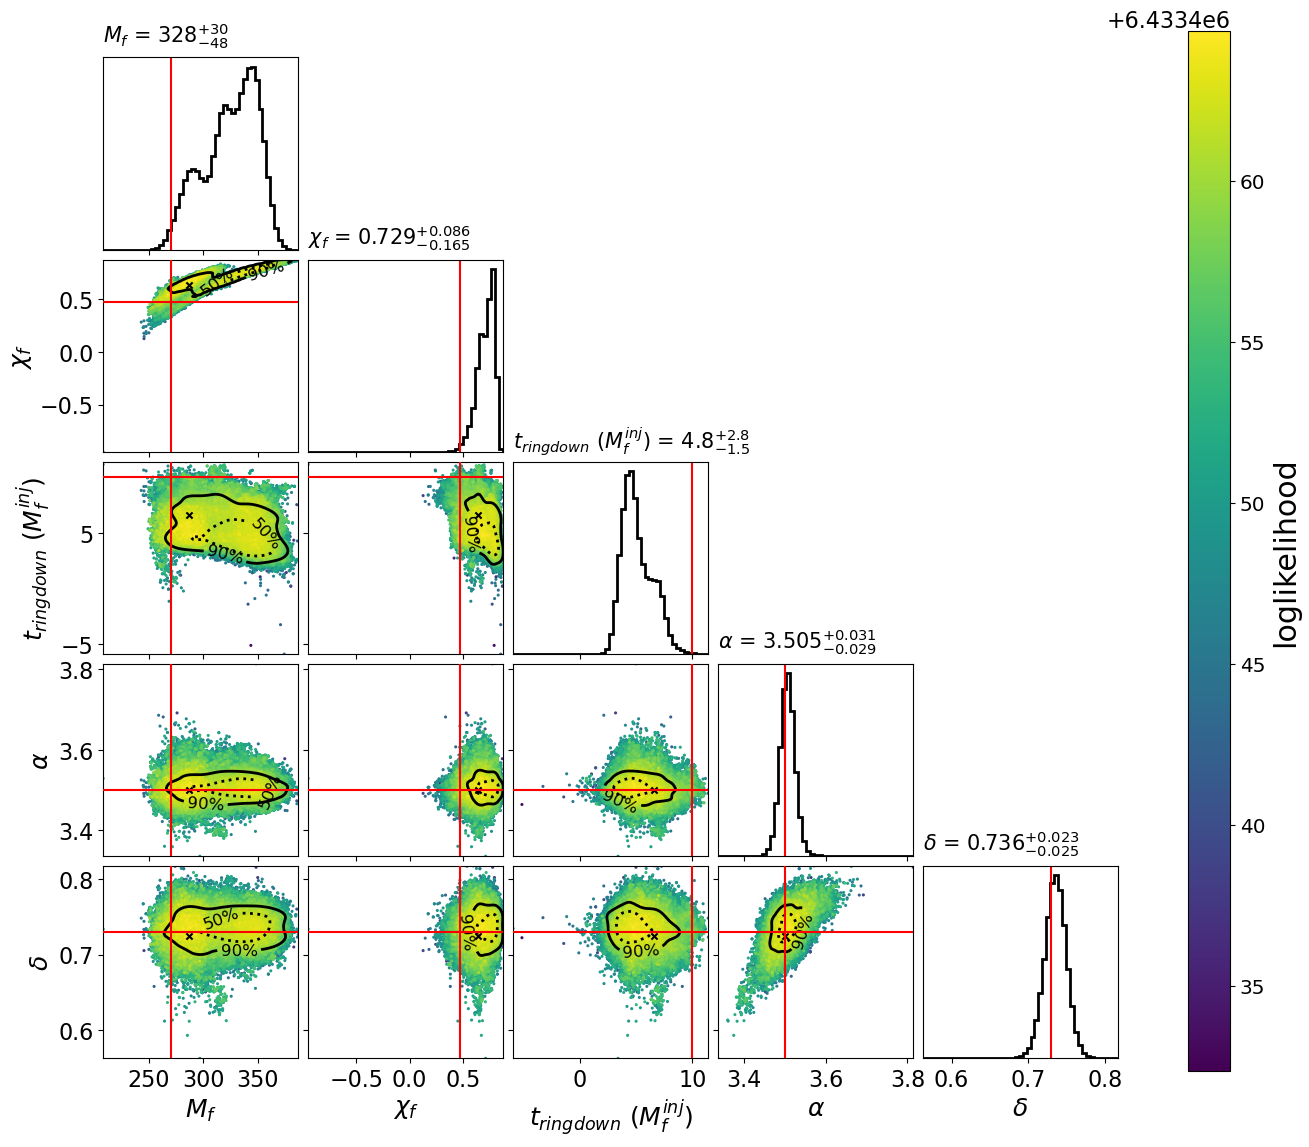
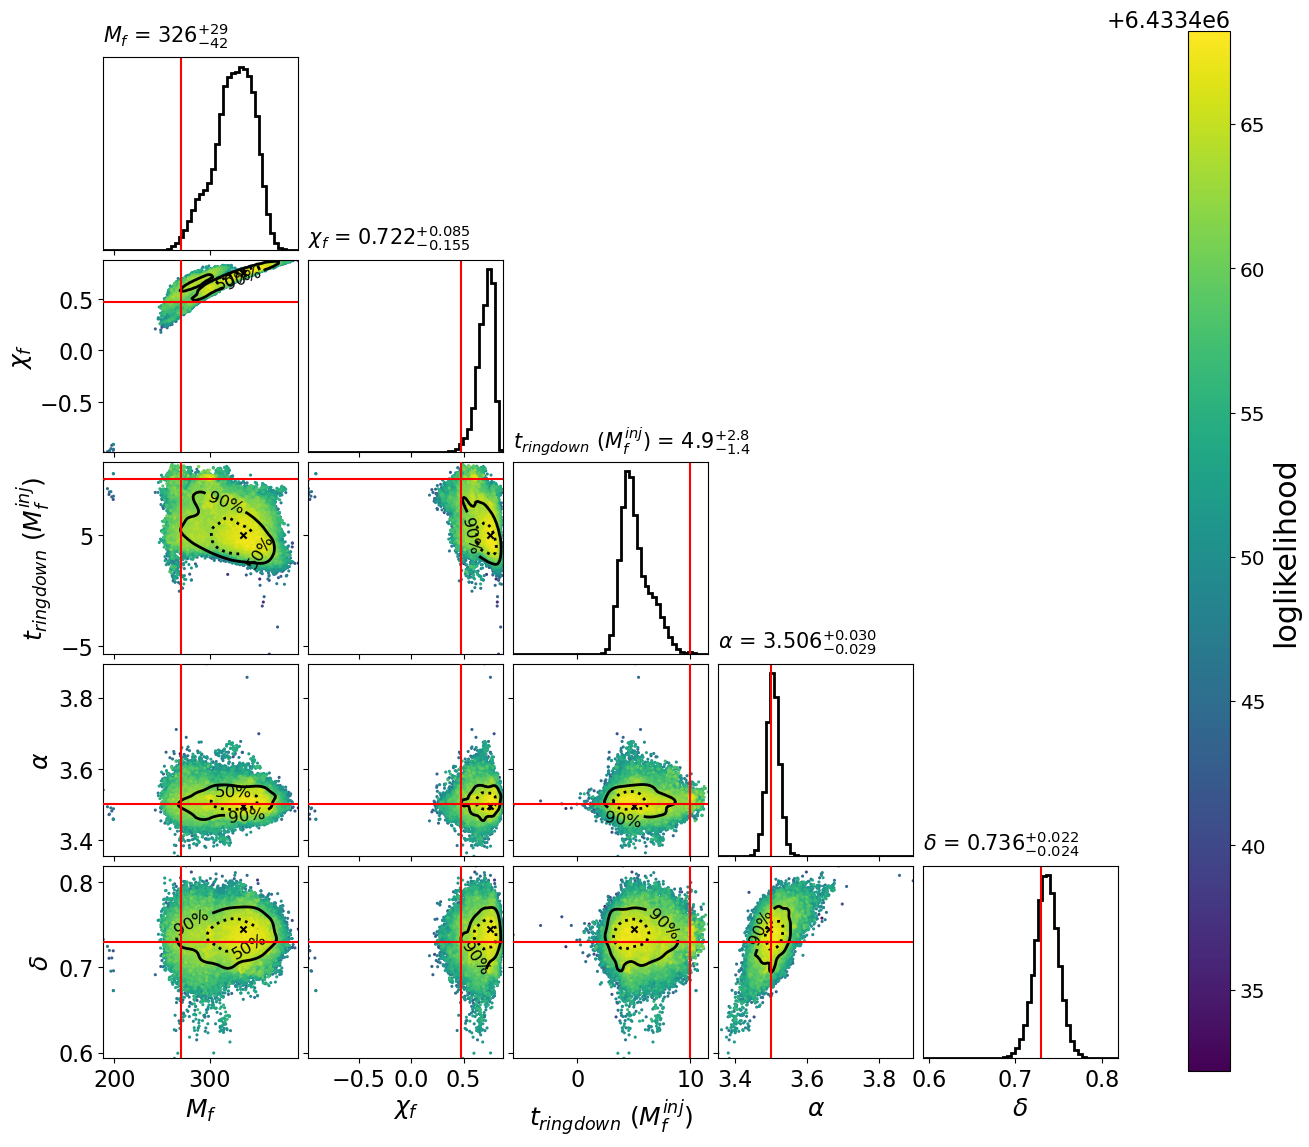
loud q=4 w=3 results

diff --git a/runs/gw190521_injections/nrsur_q4_nonspin_snr30/results.md b/runs/gw190521_injections/nrsur_q4_nonspin_snr30/results.md
@@ -12,31 +12,45 @@
 | Modes | ln Z | Δ ln Z |
 |---|---:|---:|
 | 220, 2 wavelet | 6433350.413 ± 0.092 | 56.599 ± 0.110 |
+| 220, 3 wavelet | 6433368.455 ± 0.085 | 74.641 ± 0.104 |
 | 220+210 | 6433330.698 ± 0.071 | 36.884 ± 0.093 |
 | 220+210, 2 wavelet | 6433364.804 ± 0.074 | 70.990 ± 0.095 |
+| 220+210, 3 wavelet | 6433362.145 ± 0.064 | 68.331 ± 0.087 |
 | 220+210+320 | 6433377.321 ± 0.051 | 83.507 ± 0.078 |
 | 220+210+320, 2 wavelet | 6433396.619 ± 0.082 | 102.805 ± 0.102 |
+| 220+210+320, 3 wavelet | 6433397.492 ± 0.057 | 103.678 ± 0.083 |
 | 220+221 | 6433317.978 ± 0.078 | 24.164 ± 0.098 |
 | 220+221, 2 wavelet | 6433376.365 ± 0.071 | 82.551 ± 0.093 |
+| 220+221, 3 wavelet | 6433382.252 ± 0.081 | 88.438 ± 0.100 |
 | 220+330 | 6433366.526 ± 0.055 | 72.712 ± 0.081 |
 | 220+330, 2 wavelet | 6433401.590 ± 0.083 | 107.776 ± 0.102 |
+| 220+330, 3 wavelet | 6433399.397 ± 0.061 | 105.583 ± 0.085 |
 | 220+330+210 | 6433389.084 ± 0.055 | 95.270 ± 0.081 |
 | 220+330+210, 2 wavelet | 6433403.172 ± 0.076 | 109.358 ± 0.096 |
+| 220+330+210, 3 wavelet | 6433403.591 ± 0.074 | 109.777 ± 0.095 |
 | 220+440 | 6433330.275 ± 0.048 | 36.461 ± 0.077 |
 | 220+440, 2 wavelet | 6433360.889 ± 0.072 | 67.075 ± 0.093 |
+| 220+440, 3 wavelet | 6433363.332 ± 0.069 | 69.518 ± 0.091 |
 | 220, negative mode, 2 wavelet | 6433353.647 ± 0.081 | 59.405 ± 0.099 |
+| 220, negative mode, 3 wavelet | 6433374.855 ± 0.090 | 80.614 ± 0.106 |
 | 220+210, negative mode | 6433333.446 ± 0.062 | 39.204 ± 0.084 |
 | 220+210, negative mode, 2 wavelet | 6433370.696 ± 0.072 | 76.454 ± 0.092 |
+| 220+210, negative mode, 3 wavelet | 6433369.615 ± 0.085 | 75.374 ± 0.103 |
 | 220+210+320, negative mode | 6433382.300 ± 0.071 | 88.058 ± 0.091 |
 | 220+210+320, negative mode, 2 wavelet | 6433401.960 ± 0.053 | 107.719 ± 0.078 |
+| 220+210+320, negative mode, 3 wavelet | 6433398.718 ± 0.093 | 104.477 ± 0.109 |
 | 220+221, negative mode | 6433313.380 ± 0.015 | 19.138 ± 0.059 |
 | 220+221, negative mode, 2 wavelet | 6433380.214 ± 0.074 | 85.973 ± 0.094 |
+| 220+221, negative mode, 3 wavelet | 6433381.082 ± 0.084 | 86.840 ± 0.102 |
 | 220+330, negative mode | 6433366.386 ± 0.053 | 72.144 ± 0.078 |
 | 220+330, negative mode, 2 wavelet | 6433401.422 ± 0.056 | 107.180 ± 0.080 |
+| 220+330, negative mode, 3 wavelet | 6433401.365 ± 0.074 | 107.124 ± 0.094 |
 | 220+330+210, negative mode | 6433389.238 ± 0.058 | 94.997 ± 0.082 |
 | 220+330+210, negative mode, 2 wavelet | 6433400.311 ± 0.063 | 106.069 ± 0.085 |
+| 220+330+210, negative mode, 3 wavelet | 6433401.286 ± 0.081 | 107.045 ± 0.099 |
 | 220+440, negative mode | 6433330.517 ± 0.087 | 36.276 ± 0.104 |
 | 220+440, negative mode, 2 wavelet | 6433361.302 ± 0.070 | 67.061 ± 0.091 |
+| 220+440, negative mode, 3 wavelet | 6433361.332 ± 0.075 | 67.090 ± 0.094 |
 
 ### 220-only reference evidence
 
@@ -44,23 +58,6 @@
 |---|---:|
 | 220 | 6433293.814 ± 0.059 |
 | 220, negative mode | 6433294.242 ± 0.057 |
-
-### Skipped runs
-
-- qnm220-3wavelet: no .hdf file
-- qnm220_210-3wavelet: no .hdf file
-- qnm220_210_320-3wavelet: no .hdf file
-- qnm220_221-3wavelet: no .hdf file
-- qnm220_330-3wavelet: no .hdf file
-- qnm220_330_210-3wavelet: no .hdf file
-- qnm220_440-3wavelet: no .hdf file
-- qnmd220-3wavelet: no .hdf file
-- qnmd220_210-3wavelet: no .hdf file
-- qnmd220_210_320-3wavelet: no .hdf file
-- qnmd220_221-3wavelet: no .hdf file
-- qnmd220_330-3wavelet: no .hdf file
-- qnmd220_330_210-3wavelet: no .hdf file
-- qnmd220_440-3wavelet: no .hdf file
 
 ## Posterior plots
 
@@ -175,3 +172,59 @@
 ### 220+440, negative mode, 2 wavelet
 
 ![220+440, negative mode, 2 wavelet](wav2_d440.png)
+
+### 220, 3 wavelet
+
+![220, 3 wavelet](wav3_220.png)
+
+### 220+210+320, 3 wavelet
+
+![220+210+320, 3 wavelet](wav3_210_320.png)
+
+### 220+210, 3 wavelet
+
+![220+210, 3 wavelet](wav3_210.png)
+
+### 220+221, 3 wavelet
+
+![220+221, 3 wavelet](wav3_221.png)
+
+### 220+330+210, 3 wavelet
+
+![220+330+210, 3 wavelet](wav3_330_210.png)
+
+### 220+330, 3 wavelet
+
+![220+330, 3 wavelet](wav3_330.png)
+
+### 220+440, 3 wavelet
+
+![220+440, 3 wavelet](wav3_440.png)
+
+### 220, negative mode, 3 wavelet
+
+![220, negative mode, 3 wavelet](wav3_d220.png)
+
+### 220+210+320, negative mode, 3 wavelet
+
+![220+210+320, negative mode, 3 wavelet](wav3_d210_320.png)
+
+### 220+210, negative mode, 3 wavelet
+
+![220+210, negative mode, 3 wavelet](wav3_d210.png)
+
+### 220+221, negative mode, 3 wavelet
+
+![220+221, negative mode, 3 wavelet](wav3_d221.png)
+
+### 220+330+210, negative mode, 3 wavelet
+
+![220+330+210, negative mode, 3 wavelet](wav3_d330_210.png)
+
+### 220+330, negative mode, 3 wavelet
+
+![220+330, negative mode, 3 wavelet](wav3_d330.png)
+
+### 220+440, negative mode, 3 wavelet
+
+![220+440, negative mode, 3 wavelet](wav3_d440.png)
